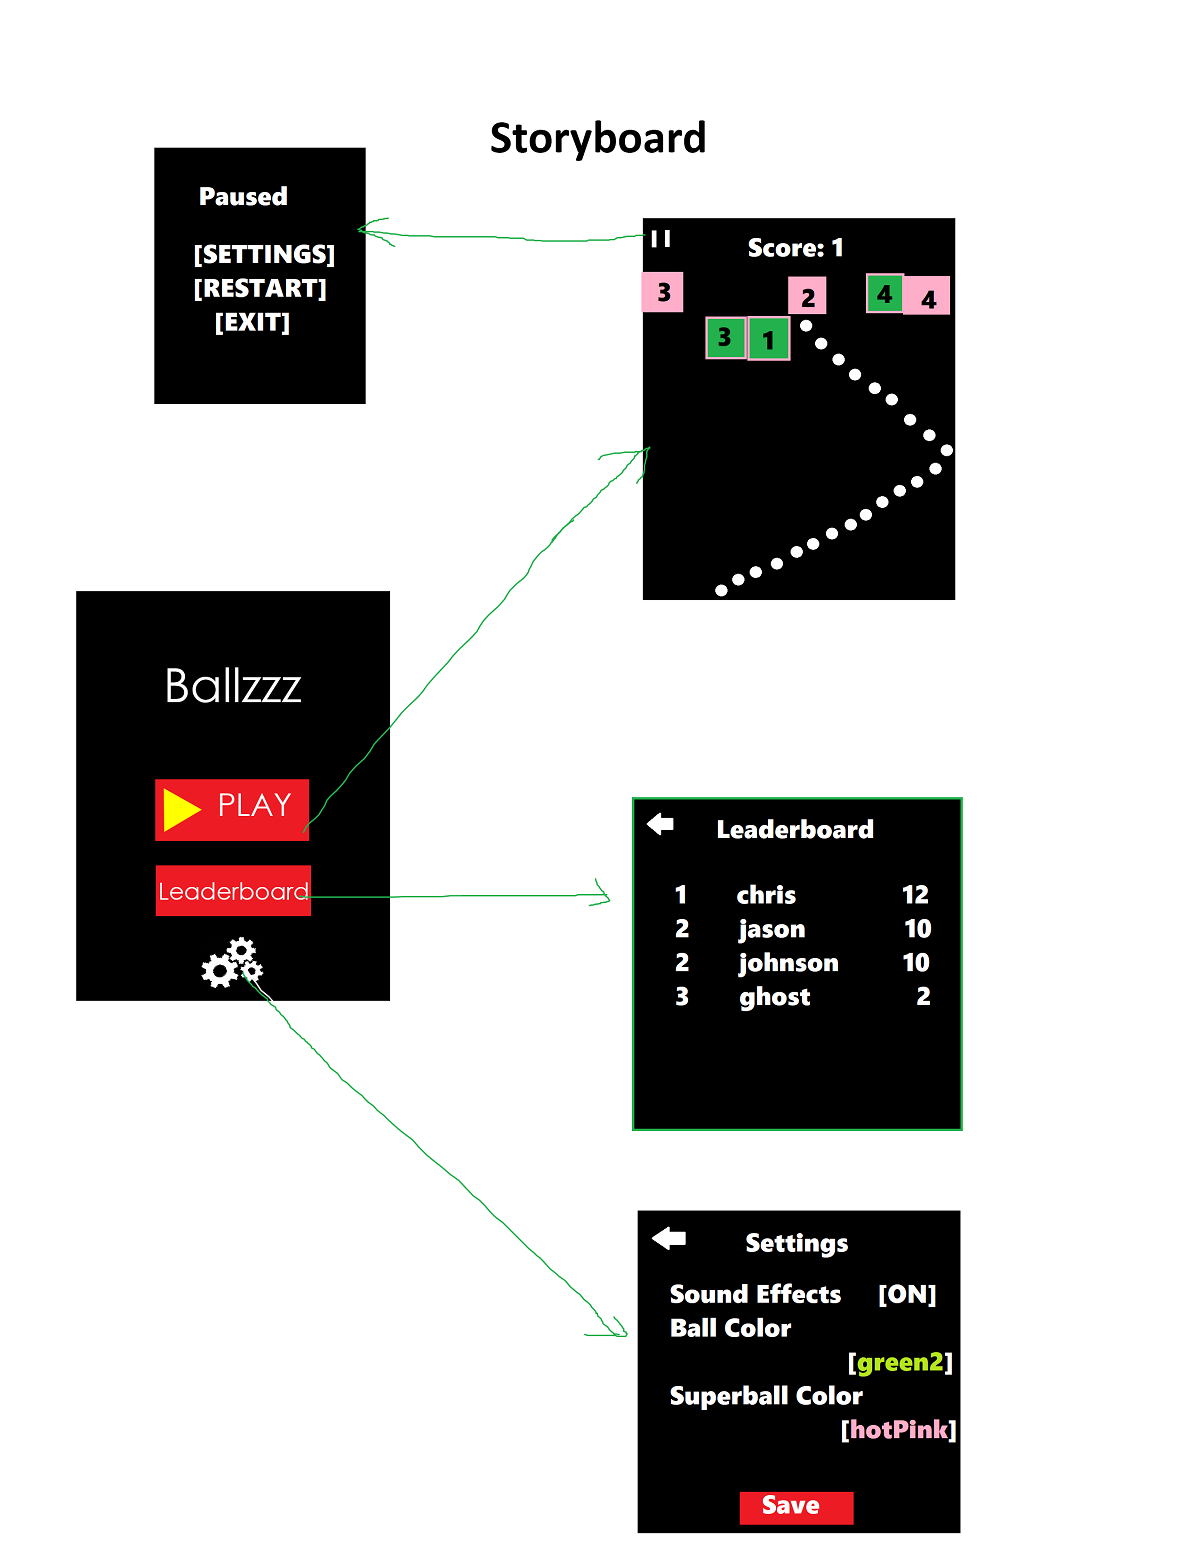
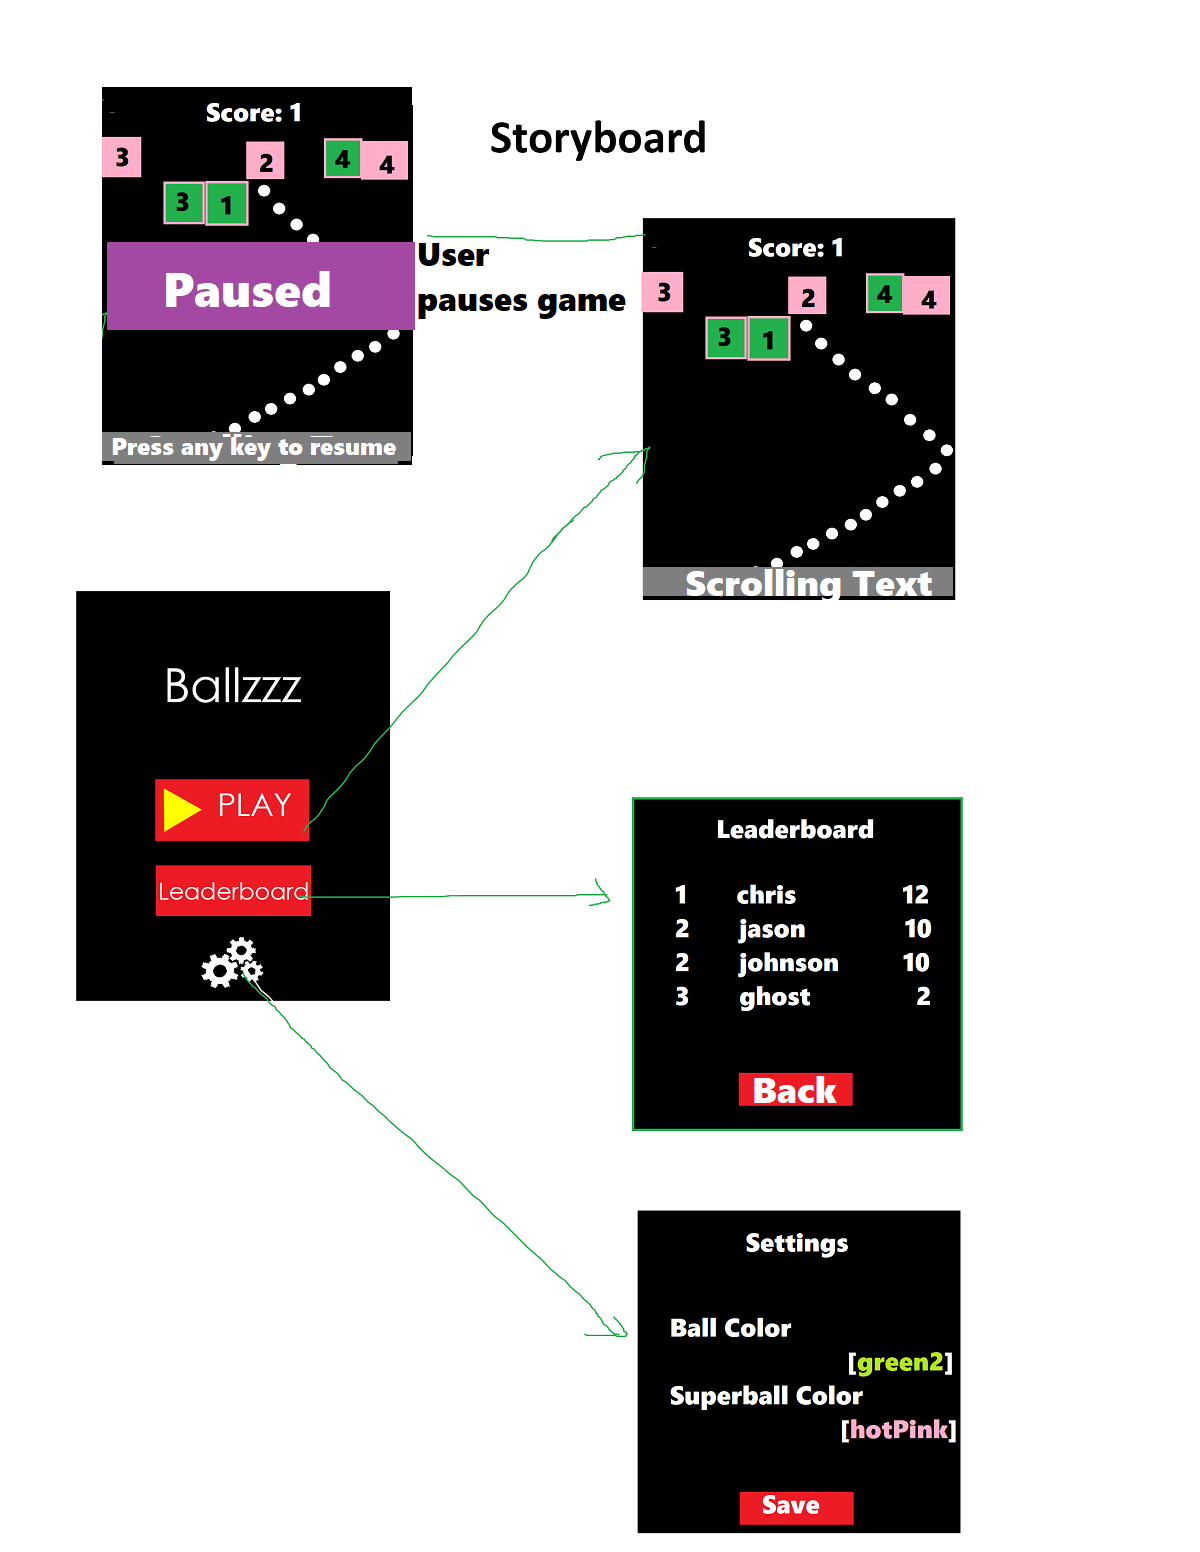
customization options

diff --git a/ballzzz.py b/ballzzz.py
@@ -2,8 +2,8 @@ import copy
 import math
 import os
 import random
+import string
 from tkinter import *
-from tkinter import messagebox
 
 from gameModules import board
 from gameModules import drawboard
@@ -37,12 +37,20 @@ def init(data):
     # Scoring and game state
     data.startGame, data.gameOver = False, False
     data.drawLeaderboard = False
+    data.drawCustomizations = False
+    data.ballColorBoxSelected = False
+    data.superBallColorBoxSelected = False
     data.bestScore = None
     data.rank = None
     # points of the user-drawn pattern
     data.segments = set()
     # X pos for bottom margin scroll text
     data.bottomScrollX = data.width
+    # try to get user-defined color. default to green2 if it doesn't exist
+    try: data.ballColor
+    except: data.ballColor = "green2"
+    data.superBallColor = "hotPink"
+    data.allowSaveCustomization = True
     # try to load saved game
     try:
         import savedGame
@@ -88,6 +96,8 @@ def init(data):
     # if url and username aren't defined, get from console
     except AttributeError:
         data.username, data.url = getUserInput()
+    # customized colors
+    data.ball.color = data.ballColor
     # Where to display ball count depends on ball pos
     data.ballCountPos = (data.ball.cx, data.ball.cy - data.ball.radius - 10)
     data.api = API(data.username, data.url)
@@ -99,17 +109,38 @@ def mousePressed(event, data):
     # drawboard button
     if data.width // 2 - 60 <= event.x <= data.width // 2 + 60 and \
             data.height // 2 + 80 <= event.y <= data.height // 2 + 120 and \
+            not data.drawCustomizations and \
             not data.drawLeaderboard and not data.startGame:
-        # hide random tkinter errors that doesn't affect the game
-        try:
-            # open drawboard
-            drawboard.run(data)
-        except:
-            pass
+        # open drawboard
+        print('Please ignore Tkinter errors, as they don\'t affect the '
+              'functionality of the game.')
+        drawboard.run(data)
         return
+    # settings button
+    if data.width // 2 - 20 <= event.x <= data.width // 2 + 20 and \
+            data.height // 2 + 250 <= event.y <= data.height // 2 + 290 and \
+            not data.drawCustomizations and not data.startGame:
+        data.drawCustomizations = True
+        return
+    if data.drawCustomizations:
+        # click in ball color box to activate input
+        # deactivate the other text box
+        if 70 < event.x < data.width - 70 and 260 < event.y < 300:
+            data.ballColorBoxSelected = True
+            data.superBallColorBoxSelected = False
+        # click in super ball color box to activate input
+        # deactivate the other text box
+        elif 70 < event.x < data.width - 70 and 360 < event.y < 400:
+            data.superBallColorBoxSelected = True
+            data.ballColorBoxSelected = False
+        # click outside the text boxes to deactivate all
+        else:
+            data.ballColorBoxSelected = False
+            data.superBallColorBoxSelected = False
     # play/restart button
     if data.width//2-60 <= event.x <= data.width//2+60 and \
             data.height//2+140 <= event.y <= data.height//2+180 and \
+            not data.drawCustomizations and \
             not data.drawLeaderboard and (data.gameOver or not data.startGame):
         if not data.startGame and len(data.segments) != 0:
                 # create a board from drawing
@@ -121,11 +152,14 @@ def mousePressed(event, data):
             board.createRandomBoard(data)
         data.startGame = True
         return
-    # leaderboard/exit button
+    # leaderboard (start screen)/exit (game over)/save (settings) button
     if data.width//2-60 <= event.x <= data.width//2+60 and \
             data.height//2+200 <= event.y <= data.height//2+240:
         if data.drawLeaderboard:
             data.drawLeaderboard = False
+        elif data.drawCustomizations and data.allowSaveCustomization:
+            data.drawCustomizations = False
+            data.ball.color = data.ballColor
         elif not data.startGame:
             data.topTen = data.api.getTopTen()['response']
             data.drawLeaderboard = True
@@ -161,6 +195,23 @@ def keyPressed(event, data):
         data.bottomScrollX = data.width
         data.paused = False
         return
+    # in settings, accept input
+    if data.drawCustomizations:
+        if data.ballColorBoxSelected:
+            # allow letters and numbers
+            if event.keysym in string.ascii_lowercase+string.digits:
+                data.ballColor += event.keysym
+            # backspace to delete one character
+            if event.keysym == "BackSpace":
+                data.ballColor = data.ballColor[:len(data.ballColor)-1]
+        elif data.superBallColorBoxSelected:
+            # allow letters and numbers
+            if event.keysym in string.ascii_lowercase+string.digits:
+                data.superBallColor += event.keysym
+            # backspace to delete one character
+            if event.keysym == "BackSpace":
+                data.superBallColor = \
+                    data.superBallColor[:len(data.superBallColor)-1]
     # only check when playing
     if data.startGame and not data.gameOver and not data.paused:
         # press ESC to go home when there's no moving balls
@@ -207,6 +258,10 @@ def timerFired(data):
 
 
 def redrawAll(canvas, data):
+    # draw customizations page
+    if data.drawCustomizations:
+        ui.drawCustomizations(canvas, data)
+        return
     # draw leaderboard
     if data.drawLeaderboard:
         ui.drawLeaderboard(canvas, data)
@@ -314,10 +369,10 @@ def createNewBall(data, lastXPos):
     if not isinstance(data.ball, SuperBall) and \
             (averageHitsPerBall > 10 or
              (data.shots % 10 == 0 and data.difficulty == 1)):
-        data.ball = SuperBall("hotPink", lastXPos,
+        data.ball = SuperBall(data.superBallColor, lastXPos,
                               data.height, data.margin)
     else:
-        data.ball = Ball("green2", lastXPos, data.height, data.margin)
+        data.ball = Ball(data.ballColor, lastXPos, data.height, data.margin)
 
 
 def saveGame(data):
@@ -353,10 +408,12 @@ def getUserInput():
     url = input("Enter your scoreboard server URL \n "
                 "(start with HTT/HTTPS and no trailing slashes. "
                 "LEAVE BLANK to use default): ")
+    # blank for default
     if url == '':
         url = "https://ballzzz.herokuapp.com"
     usernameRegex = re.compile('^[a-zA-Z0-9._-]{4,50}$')
     username = input("Enter your username: ")
+    # validate username
     while not usernameRegex.match(username):
         print('\nInvalid username! \n'
               'Your username should contain 4-50 characters, '
@@ -369,7 +426,7 @@ def startNewGame(data):
     # Ball object that stays on the bottom.
     randomBallPos = random.randint(data.margin + 10,
                                    data.width - data.margin - 10)
-    data.ball = Ball("green2", randomBallPos, data.height, data.margin)
+    data.ball = Ball(data.ballColor, randomBallPos, data.height, data.margin)
     # Where to display ball count depends on ball pos
     data.ballCountPos = (data.ball.cx, data.ball.cy - data.ball.radius - 10)
     # number of available balls; number of unreleased balls
@@ -382,6 +439,8 @@ def startNewGame(data):
     # current shot timer
     data.timer = 0
     data.paused = False
+    # create a new random board
+    board.createRandomBoard(data)
 
 
 ########################################################################

diff --git a/gameModules/ui.py b/gameModules/ui.py
@@ -90,6 +90,12 @@ def drawStart(canvas, data):
                             outline="", fill="purple")
     canvas.create_text(data.width//2, data.height//2+220, fill="white",
                        text="Leaderboard", font=('Century Gothic', 13, 'bold'))
+    # cog button
+    imgPath = data.assetPath + 'cog.png'
+    cog = PhotoImage(file=imgPath)
+    label = Label(image=cog)
+    label.image = cog
+    canvas.create_image(data.width//2, data.height//2+270, image=cog)
 
 
 def drawGameOver(canvas, data):
@@ -186,3 +192,80 @@ def drawLeaderboard(canvas, data):
                             outline="", fill="red4")
     canvas.create_text(data.width//2, data.height//2+220, fill="white",
                        text="Back", font=('Century Gothic', 14, 'bold'))
+
+
+def drawCustomizations(canvas, data):
+    canvas.create_rectangle(0, 0, data.width, data.height, fill="gray25")
+    """
+    Displaying image in Tkinter
+    https://stackoverflow.com/questions/35024118/
+        how-to-load-an-image-into-a-python-3-4-tkinter-window
+    http://effbot.org/pyfaq/why-do-my-tkinter-images-not-appear.htm
+    """
+    # logo
+    imgPath = data.assetPath + 'ballzzz.png'
+    img = PhotoImage(file=imgPath)
+    label = Label(image=img)
+    label.image = img
+    canvas.create_image(data.width//2, 60, image=img)
+    canvas.create_text(data.width//2, 170, fill="white",
+                       text="Customizations",
+                       font=('Century Gothic', 24, 'bold'))
+    # text box for ball color
+    canvas.create_text(70, 240, fill="white",
+                       text="Ball color", anchor='w',
+                       font=('Century Gothic', 14, 'bold'))
+    if data.ballColorBoxSelected:
+        canvas.create_rectangle(70, 260, data.width-70, 300, fill="gray90")
+    else:
+        canvas.create_rectangle(70, 260, data.width-70, 300, fill="gray70")
+    # text in box
+    # check if color is legal
+    try:
+        canvas.create_text(data.width//2, 280, fill=data.ballColor,
+                           text=data.ballColor, font=('Century Gothic', 14))
+    except:
+        # if not, disable save and show error
+        canvas.create_text(data.width//2, 280, fill="red",
+                           text=data.ballColor, font=('Century Gothic', 14))
+        canvas.create_text(data.width//2, 310, fill="red",
+                           text="Color doesn't exist!",
+                           font=('Century Gothic', 12, 'bold'))
+        data.allowSaveCustomization = False
+    # text box for super ball color
+    canvas.create_text(70, 340, fill="white",
+                       text="Super Ball color", anchor='w',
+                       font=('Century Gothic', 14, 'bold'))
+    if data.superBallColorBoxSelected:
+        canvas.create_rectangle(70, 360, data.width-70, 400, fill="gray90")
+    else:
+        canvas.create_rectangle(70, 360, data.width-70, 400, fill="gray70")
+    # text in box
+    # check if color is legal
+    try:
+        canvas.create_text(data.width//2, 380, fill=data.superBallColor,
+                           text=data.superBallColor,
+                           font=('Century Gothic', 14))
+    # if not, disable save and show error
+    except:
+        canvas.create_text(data.width//2, 380, fill="red",
+                           text=data.superBallColor,
+                           font=('Century Gothic', 14))
+        canvas.create_text(data.width//2, 410, fill="red",
+                           text="Color doesn't exist!",
+                           font=('Century Gothic', 12, 'bold'))
+        data.allowSaveCustomization = False
+    # when save is disabled, create dummy text to test if color becomes legal
+    while not data.allowSaveCustomization:
+        try:
+            canvas.create_text(0, 0, fill=data.ballColor)
+            canvas.create_text(0, 0, fill=data.superBallColor)
+            data.allowSaveCustomization = True
+        except: break
+    if data.allowSaveCustomization:
+        # save button
+        canvas.create_rectangle(data.width//2-60, data.height//2+200,
+                                data.width//2+60, data.height//2+240,
+                                outline="", fill="green")
+    canvas.create_text(data.width//2, data.height//2+220, fill="white",
+                       text="Save", font=('Century Gothic', 14, 'bold'))

diff --git a/gameModules/drawboard.py b/gameModules/drawboard.py
@@ -97,8 +97,8 @@ def drawMargin(canvas, data):
 
 # check if current mouse pos is in margin
 def mouseInMargin(mouseX, mouseY, data):
-    return data.margin <= mouseX <= data.width - data.margin and \
-           data.margin <= mouseY <= data.height - data.margin
+    return 2*data.margin <= mouseX <= data.width - 2*data.margin and \
+           2 *data.margin <= mouseY <= data.height - 2*data.margin
 
 
 ########################################################################

diff --git a/docs/project_proposal.md b/docs/project_proposal.md
@@ -33,19 +33,17 @@ When the game ends, scores are automatically sent to a server. Player can see th
 
 **Since Ballzzz is simply Ballz on steroids, other more complicated features will (probablyy) be implemented**:
 
-- [x] [EASY] After the game is over, scores are sent to a server, and rankings are displayed on the game-over screen.
-- [x] [EASY] Players can see the top scores on a webpage hosted on the same server.
-- [x] [EASY] Players can see the top ten scores in the game.
-- [x] [EASY] A "Super Ball" ([definition](#super-ball)) is awarded when one of these conditions are met:
+- [x] After the game is over, scores are sent to a server, and rankings are displayed on the game-over screen.
+- [x] Players can see the top scores on a webpage hosted on the same server.
+- [x] Players can see the top ten scores in the game.
+- [x] A "Super Ball" ([definition](#super-ball)) is awarded when one of these conditions are met:
   - [x] Every 10 shots (only in Easy mode)
   - [x] Average hits per ball ([definition](#average-hits-per-ball)) of a shot is greater than 10
-- [x] [MEDIUM] Generate board based on a shape that the player draws
-- [x] [MEDIUM] Store game state
-- [x] [MEDIUM] Difficulty selection
-- [x] [MEDIUM] Increased difficulty when score is a multiple of 50
-- [ ] [EASY] Players can customize the look of the ball.
-- [ ] [HARD] Multiplayer mode. Two players shoot from opposite sides of the board.
-- [ ] [HARD] The balls can bounce off of each other
+- [x] Generate board based on a shape that the player draws
+- [x] Store game state
+- [x] Difficulty selection
+- [x] Increased difficulty when score is a multiple of 50
+- [ ] Players can customize the color of the ball.
 - [ ] [HARD] A "cheat mode" that finds the best way to make the current move.
 
 ### Definitions

diff --git a/README.md b/README.md
@@ -15,7 +15,6 @@ The entire project is available on [GitHub](https://github.com/chrisx8/Ballzzz/)
 
 - Download these files from the root directory
   - `ballzzz.py`
-  - `ballzzz_icon.ico`
   - `requirements.txt`
 - Download everything in `gameModules/` and everything in `assets/`
 - Install `requests` using `pip`:
@@ -31,12 +30,13 @@ The entire project is available on [GitHub](https://github.com/chrisx8/Ballzzz/)
 ### Changes since TP2
 
 - Player can draw a pattern on the drawboard, and the game board will be generated based on what the player draws.
-- Fixed a bug where player pattern parsing may result in list-out-of-range error.
+- Fixed a bug where player pattern parsing may result in list out-of-bound error.
 - Fixed a bug where a SuperBall can clear the entire board due to insufficient type checking.
 - Implemented leaderboard, which shows the top ten players.
 - Player can save the game and return to the main menu by pressing ESC.
 - Player can restore a previous game, if `savedGame.py` exists and is legal.
-- Some minor UI improvements.
+- Player can customize color of the ball or the super ball.
+- Many UI improvements.
  
 ### Changes since TP1
 
